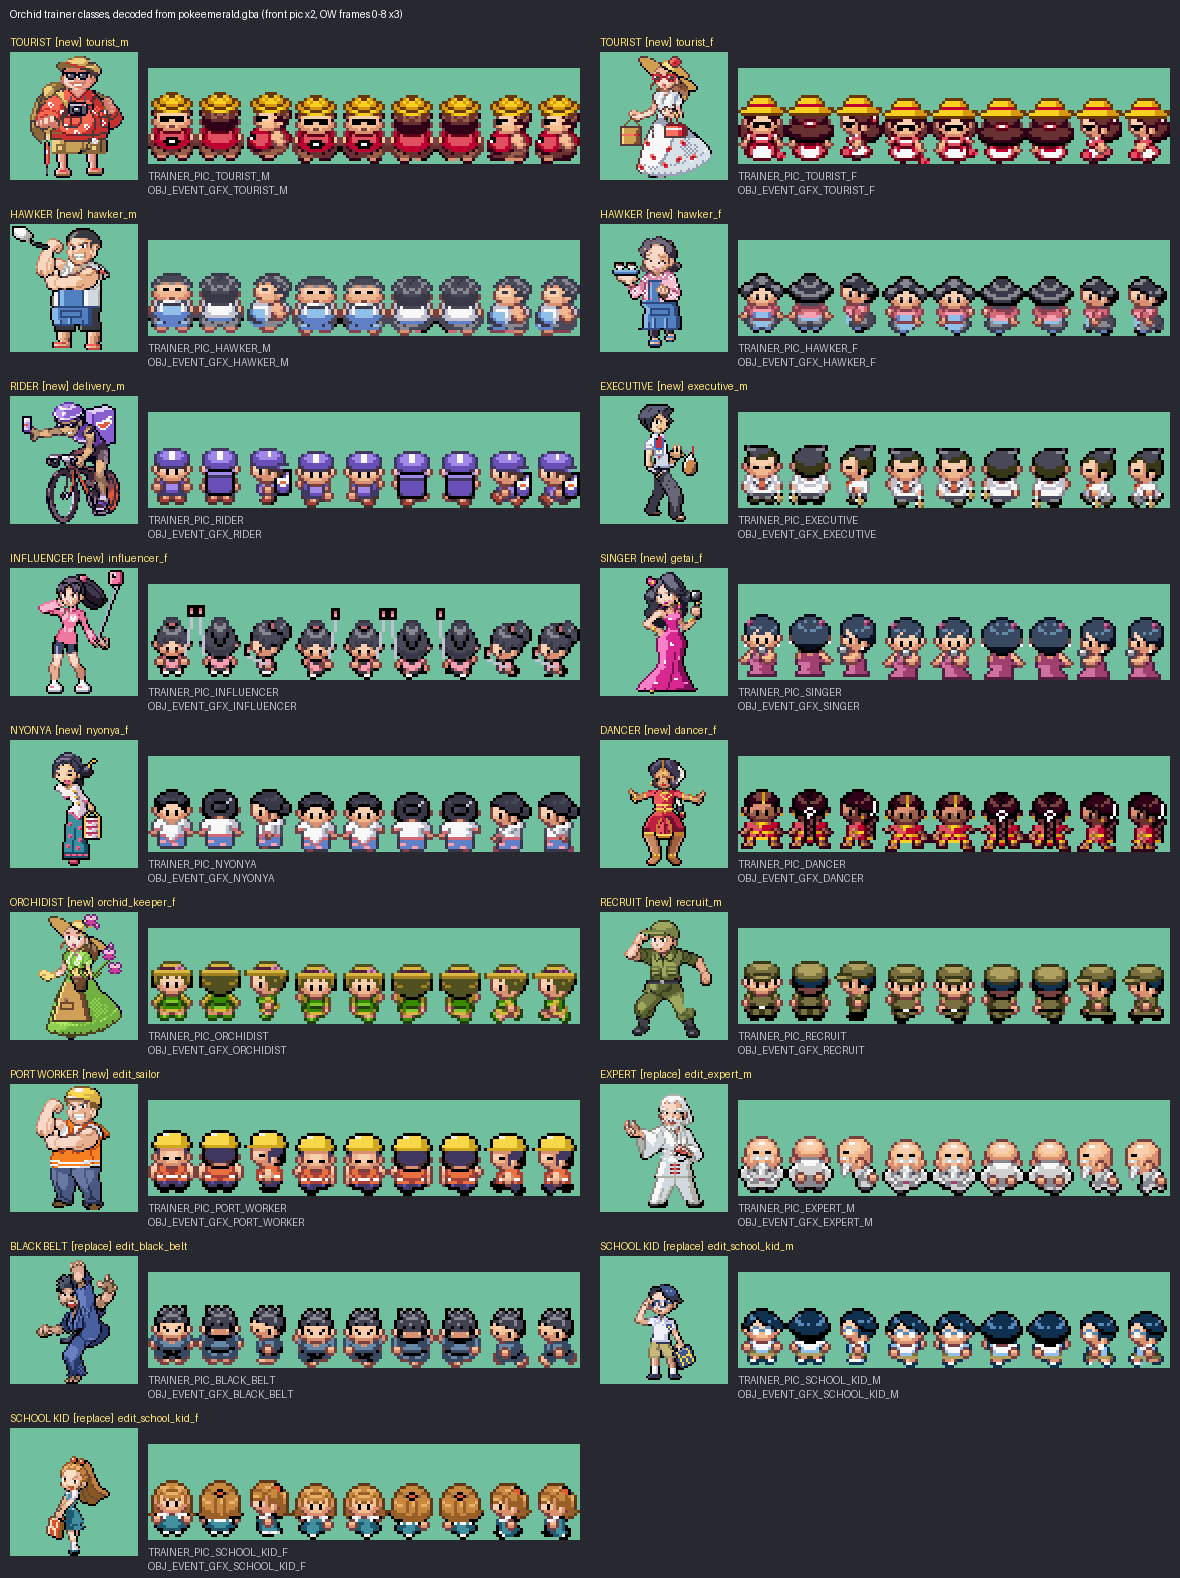
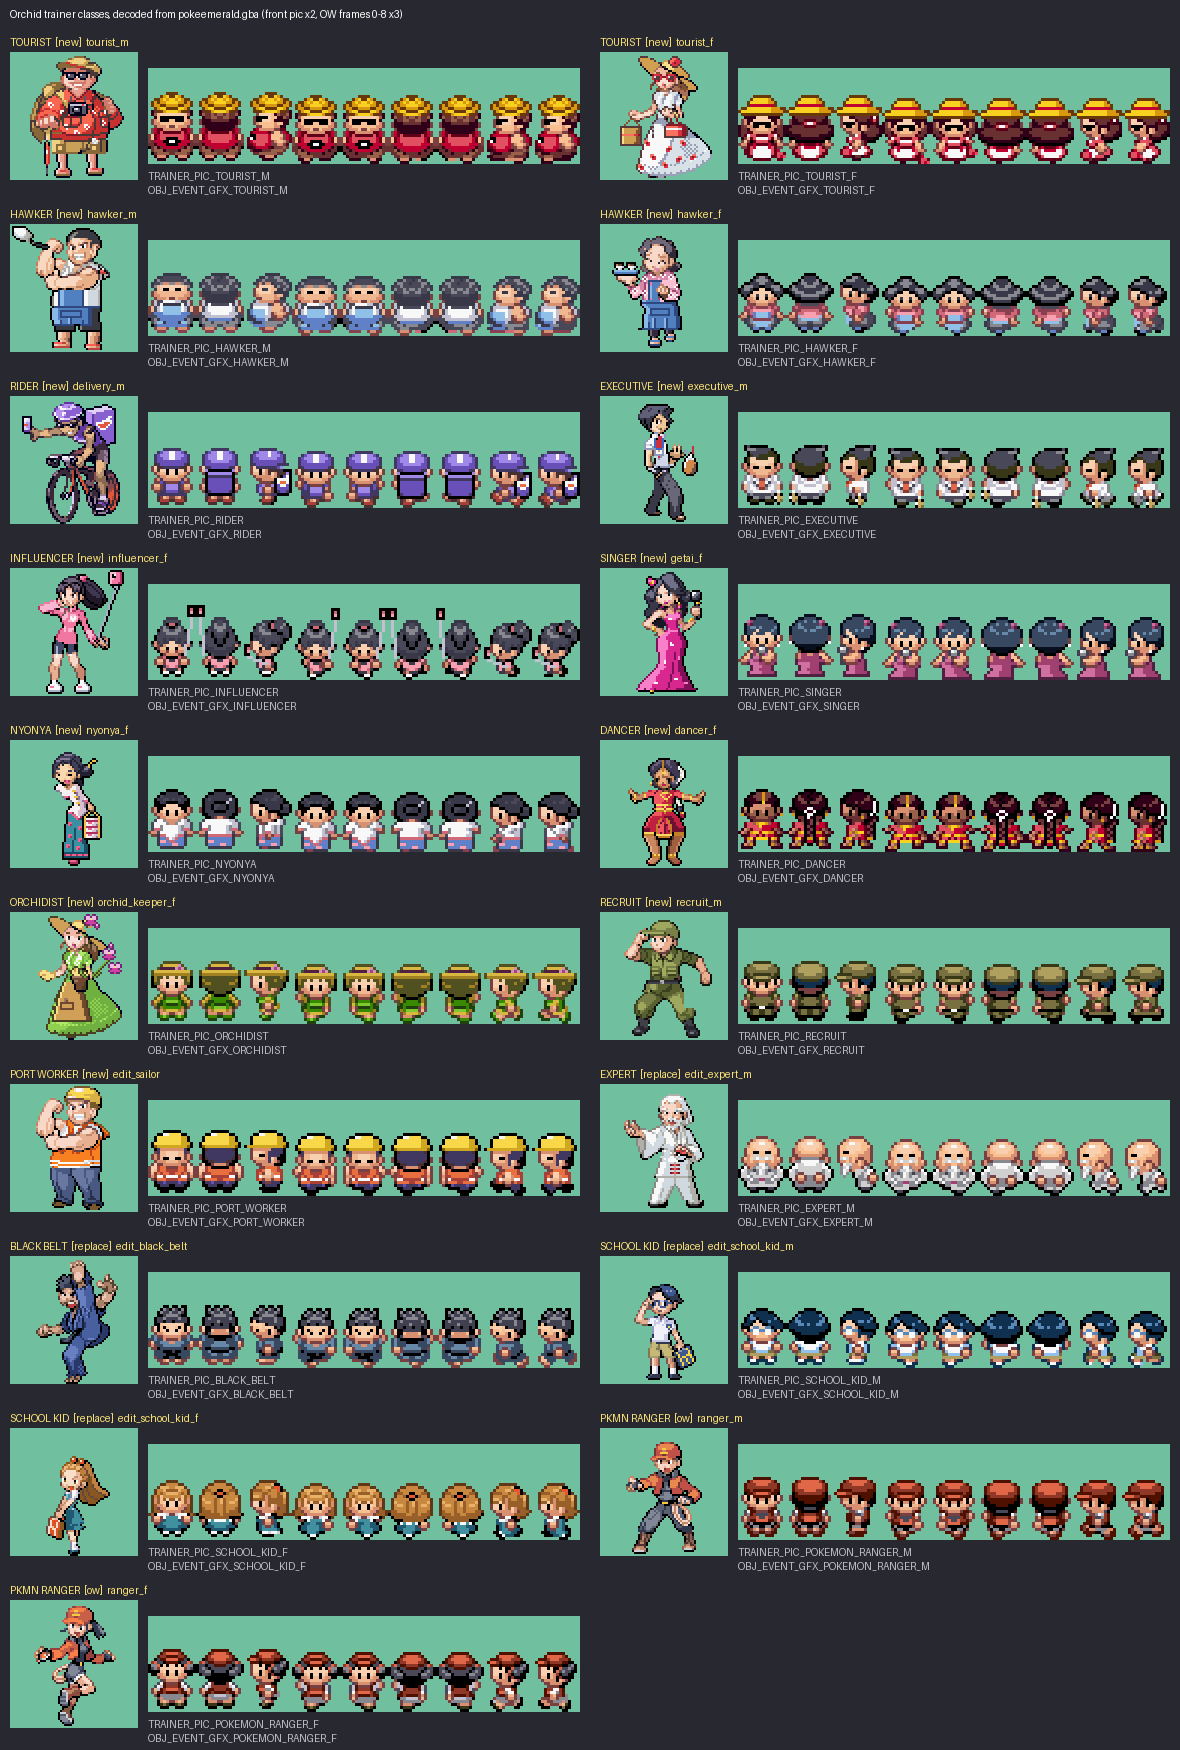
Add Pokémon Ranger overworld sprites
The Pkmn Ranger class and front pics already existed, but vanilla reused
the Camper/Picnicker overworlds. Add OBJ_EVENT_GFX_POKEMON_RANGER_M/F as
recolours of those sheets on the shared npc_white palette: orange cap and
jacket, blue-grey shorts, dark hair (silver highlight on the female).

Recolour scripts in dev_scripts/trainer_classes/classes/ranger_{m,f}.py;
install.py gains an OW-only mode (and no longer writes a bogus
school_kid_f-og.png); verify_ingame.py checks both against the ROM.

diff --git a/dev_scripts/trainer_classes/install.py b/dev_scripts/trainer_classes/install.py
@@ -43,8 +43,13 @@ SPRITES = [
     ('edit_school_kid_m', 'school_kid_m', 'replace', 'npc_1'),
     # front pic replaces vanilla; the OW is new (vanilla has no School Kid F overworld)
     ('edit_school_kid_f', 'school_kid_f', 'replace', 'npc_school_kid_f'),
+    # OW only: the Pkmn Ranger class + front pics are vanilla; vanilla reused the Camper/Picnicker OWs
+    ('ranger_m',          'pokemon_ranger_m', 'ow',  'npc_white'),
+    ('ranger_f',          'pokemon_ranger_f', 'ow',  'npc_white'),
 ]
 OWN_PALETTES = {'npc_school_kid_f'}
+# 'replace' entries whose OW is new (no vanilla OW to back up as -og)
+NEW_OW = {'edit_school_kid_f'}
 
 
 def npc_palette(name):
@@ -82,21 +87,22 @@ def main():
     errors = []
     for sid, name, mode, npc in SPRITES:
         print(sid, '->', name, f'({mode})')
-        # front pic
-        px, pal = load16(os.path.join(OUT, sid + '_front.png'), (64, 64))
-        dst = os.path.join(FRONT_DIR, name + '.png')
-        if mode == 'replace':
-            if not os.path.exists(dst):
-                errors.append(f'{name}: no vanilla front pic to replace')
-            backup(dst)
-        write16(dst, (64, 64), px, pal)
+        # front pic ('ow' entries keep the vanilla front pic and only add an overworld)
+        if mode != 'ow':
+            px, pal = load16(os.path.join(OUT, sid + '_front.png'), (64, 64))
+            dst = os.path.join(FRONT_DIR, name + '.png')
+            if mode == 'replace':
+                if not os.path.exists(dst):
+                    errors.append(f'{name}: no vanilla front pic to replace')
+                backup(dst)
+            write16(dst, (64, 64), px, pal)
         # overworld
         px, pal = load16(os.path.join(OUT, sid + '_ow.png'), (144, 32))
         want = npc_palette(npc)
         if pal != want:
             errors.append(f'{sid}: OW palette differs from {npc}')
         dst = os.path.join(OW_DIR, name + '.png')
-        if mode == 'replace' and os.path.exists(dst):
+        if mode == 'replace' and sid not in NEW_OW and os.path.exists(dst):
             backup(dst)
             van = Image.open(dst.replace('.png', '-og.png'))
             if van.size != (144, 32):

diff --git a/dev_scripts/trainer_classes/classes/ranger_m.py b/dev_scripts/trainer_classes/classes/ranger_m.py
@@ -1,0 +1,32 @@
+"""OW ONLY: Pokémon Ranger ♂ overworld, a recolour of the vanilla Camper OW.
+The Pkmn Ranger class and its front pics already exist (pokemon_ranger_m/f); vanilla Emerald just
+reused the Camper/Picnicker overworlds. Colours follow the ranger front pic, moved from npc_3 to the
+shared npc_white palette (orange 8-A sits on the same slots as the Camper's greens):
+green cap/shirt -> orange cap/jacket, white undershirt -> dark grey, greys/navy straps -> greys B-D,
+green shorts -> blue-grey, hair -> dark brown (A + black), shoes -> dark brown.
+"""
+import os, sys
+sys.path.insert(0, os.path.join(os.path.dirname(__file__), '..'))
+from kit import *
+
+ID = 'ranger_m'
+o_ = load_ow('camper')
+o_.pal = npc_pal('npc_white')
+
+GREYS = {5: 11, 6: 12, 7: 13}           # npc_3 greys/navy -> npc_white greys
+for i in range(9):
+    o = 0 if i < 3 else 1                # walk frames sit one pixel lower
+    x0, x1 = i * 16, i * 16 + 15
+    # head: cap stays on 8-A (now orange); hair C/D -> dark brown A / black outline
+    o_.remap({**GREYS, 12: 10, 13: 15}, (x0, 0, x1, 20 + o))
+    # torso: shirt stays 8-A (orange jacket); front-facing white undershirt -> dark grey shirt
+    torso = dict(GREYS)
+    if i in (0, 3, 4):
+        torso[5] = 13
+    o_.remap(torso, (x0, 21 + o, x1, 25 + o))
+    # shorts -> blue-grey, black hem; shoes D -> dark brown A
+    o_.remap({**GREYS, 8: 11, 9: 12, 10: 15, 13: 10, 12: 4}, (x0, 26 + o, x1, 31))
+
+p, probs = o_.save_ow(ID, 'npc_white')
+print(p, probs or 'ok', o_.used())
+compare(ID, 'pokemon_ranger_m', 'camper')

diff --git a/dev_scripts/trainer_classes/classes/ranger_f.py b/dev_scripts/trainer_classes/classes/ranger_f.py
@@ -1,0 +1,29 @@
+"""OW ONLY: Pokémon Ranger ♀ overworld, a recolour of the vanilla Picnicker OW (see ranger_m.py).
+Moved from npc_3 to npc_white: green cap/top -> orange (same slots 8-A), auburn hair B/C/D -> dark slate 13 with a silver 12 highlight + black outline (her front pic has a near-black ponytail)
+so it separates from the orange cap, straps/greys -> greys B-D, green skirt -> blue-grey
+shorts (white frills -> mid grey), green shoes -> brown boots (6/7).
+"""
+import os, sys
+sys.path.insert(0, os.path.join(os.path.dirname(__file__), '..'))
+from kit import *
+
+ID = 'ranger_f'
+o_ = load_ow('picnicker')
+o_.pal = npc_pal('npc_white')
+
+GREYS = {5: 11, 6: 12, 7: 13}
+for i in range(9):
+    o = 0 if i < 3 else 1
+    x0, x1 = i * 16, i * 16 + 15
+    # head + hair (hair reaches the shoulders)
+    o_.remap({**GREYS, 11: 12, 12: 13, 13: 15}, (x0, 0, x1, 21 + o))
+    # top: stays orange; straps -> greys; any hair ends -> dark slate
+    o_.remap({**GREYS, 11: 12, 12: 13, 13: 15}, (x0, 22 + o, x1, 25 + o))
+    # skirt -> blue-grey shorts
+    o_.remap({8: 11, 9: 12, 10: 15, 5: 12, 14: 12, 6: 12, 7: 13, 11: 12, 12: 13, 13: 15}, (x0, 26 + o, x1, 27 + o))
+    # shoes -> brown boots
+    o_.remap({8: 6, 9: 7, 10: 15, **GREYS}, (x0, 28 + o, x1, 31))
+
+p, probs = o_.save_ow(ID, 'npc_white')
+print(p, probs or 'ok', o_.used())
+compare(ID, 'pokemon_ranger_f', 'picnicker')

diff --git a/src/data/object_events/object_event_graphics_info.h b/src/data/object_events/object_event_graphics_info.h
@@ -4720,6 +4720,42 @@ const struct ObjectEventGraphicsInfo gObjectEventGraphicsInfo_SchoolKidF = {
     .images = sPicTable_SchoolKidF,
 };
 
+const struct ObjectEventGraphicsInfo gObjectEventGraphicsInfo_PokemonRangerM = {
+    .tileTag = TAG_NONE,
+    .paletteTag = OBJ_EVENT_PAL_TAG_NPC_WHITE,
+    .reflectionPaletteTag = OBJ_EVENT_PAL_TAG_NONE,
+    .size = 256,
+    .width = 16,
+    .height = 32,
+    .paletteSlot = PALSLOT_NPC_1,
+    .shadowSize = SHADOW_SIZE_M,
+    .inanimate = FALSE,
+    .compressed = FALSE,
+    .tracks = TRACKS_FOOT,
+    .oam = &gObjectEventBaseOam_16x32,
+    .subspriteTables = sOamTables_16x32,
+    .anims = sAnimTable_Standard,
+    .images = sPicTable_PokemonRangerM,
+};
+
+const struct ObjectEventGraphicsInfo gObjectEventGraphicsInfo_PokemonRangerF = {
+    .tileTag = TAG_NONE,
+    .paletteTag = OBJ_EVENT_PAL_TAG_NPC_WHITE,
+    .reflectionPaletteTag = OBJ_EVENT_PAL_TAG_NONE,
+    .size = 256,
+    .width = 16,
+    .height = 32,
+    .paletteSlot = PALSLOT_NPC_1,
+    .shadowSize = SHADOW_SIZE_M,
+    .inanimate = FALSE,
+    .compressed = FALSE,
+    .tracks = TRACKS_FOOT,
+    .oam = &gObjectEventBaseOam_16x32,
+    .subspriteTables = sOamTables_16x32,
+    .anims = sAnimTable_Standard,
+    .images = sPicTable_PokemonRangerF,
+};
+
 #if IS_FRLG
 
 const struct ObjectEventGraphicsInfo gObjectEventGraphicsInfo_RedNormal = {

diff --git a/src/data/object_events/object_event_graphics_info_pointers.h b/src/data/object_events/object_event_graphics_info_pointers.h
@@ -402,6 +402,8 @@ extern const struct ObjectEventGraphicsInfo gObjectEventGraphicsInfo_Orchidist;
 extern const struct ObjectEventGraphicsInfo gObjectEventGraphicsInfo_Recruit;
 extern const struct ObjectEventGraphicsInfo gObjectEventGraphicsInfo_PortWorker;
 extern const struct ObjectEventGraphicsInfo gObjectEventGraphicsInfo_SchoolKidF;
+extern const struct ObjectEventGraphicsInfo gObjectEventGraphicsInfo_PokemonRangerM;
+extern const struct ObjectEventGraphicsInfo gObjectEventGraphicsInfo_PokemonRangerF;
 // Begin Pokémon event objects
 extern const struct ObjectEventGraphicsInfo gObjectEventGraphicsInfo_PokeBall;
 extern const struct ObjectEventGraphicsInfo gObjectEventGraphicsInfo_Follower;
@@ -821,6 +823,8 @@ const struct ObjectEventGraphicsInfo *const gObjectEventGraphicsInfoPointers[NUM
     [OBJ_EVENT_GFX_RECRUIT] = &gObjectEventGraphicsInfo_Recruit,
     [OBJ_EVENT_GFX_PORT_WORKER] = &gObjectEventGraphicsInfo_PortWorker,
     [OBJ_EVENT_GFX_SCHOOL_KID_F] = &gObjectEventGraphicsInfo_SchoolKidF,
+    [OBJ_EVENT_GFX_POKEMON_RANGER_M] = &gObjectEventGraphicsInfo_PokemonRangerM,
+    [OBJ_EVENT_GFX_POKEMON_RANGER_F] = &gObjectEventGraphicsInfo_PokemonRangerF,
 };
 
 const struct ObjectEventGraphicsInfo *const gMauvilleOldManGraphicsInfoPointers[] = {

diff --git a/dev_scripts/trainer_classes/verify_ingame.py b/dev_scripts/trainer_classes/verify_ingame.py
@@ -53,6 +53,8 @@ WIRING = {
     'edit_black_belt':   ('BLACK_BELT',   'BLACK_BELT',  'BLACK BELT',  'BLACK_BELT'),
     'edit_school_kid_m': ('SCHOOL_KID_M', 'SCHOOL_KID',  'SCHOOL KID',  'SCHOOL_KID_M'),
     'edit_school_kid_f': ('SCHOOL_KID_F', 'SCHOOL_KID',  'SCHOOL KID',  'SCHOOL_KID_F'),
+    'ranger_m':          ('POKEMON_RANGER_M', 'PKMN_RANGER', 'PKMN RANGER', 'POKEMON_RANGER_M'),
+    'ranger_f':          ('POKEMON_RANGER_F', 'PKMN_RANGER', 'PKMN RANGER', 'POKEMON_RANGER_F'),
 }
 PAL_TAG_NONE = 0x11FF
 
@@ -186,7 +188,10 @@ def main():
         sym, data = smol_decompress(img_ptr)
         fpx = tiles_to_px(data, 8, 8)
         fpal = palette(pal_ptr)
-        spx, spal_src = load_src(os.path.join(OUT, sid + '_front.png'))
+        # 'ow' entries keep the vanilla front pic, so compare against graphics/ instead of out/
+        front_src = (os.path.join(ROOT, 'graphics/trainers/front_pics', name + '.png') if mode == 'ow'
+                     else os.path.join(OUT, sid + '_front.png'))
+        spx, spal_src = load_src(front_src)
         ok_px, ok_pal = fpx == spx, fpal == spal_src
         rep.append(f'front {sym} px={"ok" if ok_px else "DIFF"} pal={"ok" if ok_pal else "DIFF"}')
         if not (ok_px and ok_pal):

diff --git a/src/data/object_events/object_event_graphics.h b/src/data/object_events/object_event_graphics.h
@@ -493,6 +493,8 @@ const u32 gObjectEventPic_Orchidist[] = INCGFX_U32("graphics/object_events/pics/
 const u32 gObjectEventPic_Recruit[] = INCGFX_U32("graphics/object_events/pics/people/recruit.png", ".4bpp", "-mwidth 2 -mheight 4");
 const u32 gObjectEventPic_PortWorker[] = INCGFX_U32("graphics/object_events/pics/people/port_worker.png", ".4bpp", "-mwidth 2 -mheight 4");
 const u32 gObjectEventPic_SchoolKidF[] = INCGFX_U32("graphics/object_events/pics/people/school_kid_f.png", ".4bpp", "-mwidth 2 -mheight 4");
+const u32 gObjectEventPic_PokemonRangerM[] = INCGFX_U32("graphics/object_events/pics/people/pokemon_ranger_m.png", ".4bpp", "-mwidth 2 -mheight 4");
+const u32 gObjectEventPic_PokemonRangerF[] = INCGFX_U32("graphics/object_events/pics/people/pokemon_ranger_f.png", ".4bpp", "-mwidth 2 -mheight 4");
 
 #if IS_FRLG
 

diff --git a/src/data/object_events/object_event_pic_tables.h b/src/data/object_events/object_event_pic_tables.h
@@ -1412,6 +1412,14 @@ static const struct SpriteFrameImage sPicTable_SchoolKidF[] = {
     overworld_ascending_frames(gObjectEventPic_SchoolKidF, 2, 4),
 };
 
+static const struct SpriteFrameImage sPicTable_PokemonRangerM[] = {
+    overworld_ascending_frames(gObjectEventPic_PokemonRangerM, 2, 4),
+};
+
+static const struct SpriteFrameImage sPicTable_PokemonRangerF[] = {
+    overworld_ascending_frames(gObjectEventPic_PokemonRangerF, 2, 4),
+};
+
 #if IS_FRLG
 
 static const struct SpriteFrameImage sPicTable_RedNormal[] = {

diff --git a/include/constants/event_objects.h b/include/constants/event_objects.h
@@ -428,6 +428,8 @@ enum
     OBJ_EVENT_GFX_RECRUIT,
     OBJ_EVENT_GFX_PORT_WORKER,
     OBJ_EVENT_GFX_SCHOOL_KID_F,
+    OBJ_EVENT_GFX_POKEMON_RANGER_M,
+    OBJ_EVENT_GFX_POKEMON_RANGER_F,
     NUM_OBJ_EVENT_GFX,
 };
 
